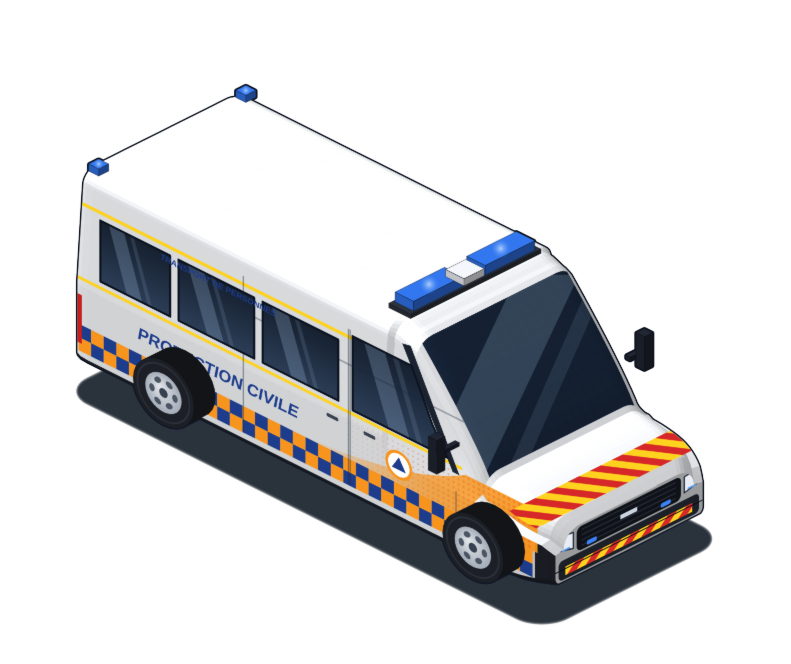
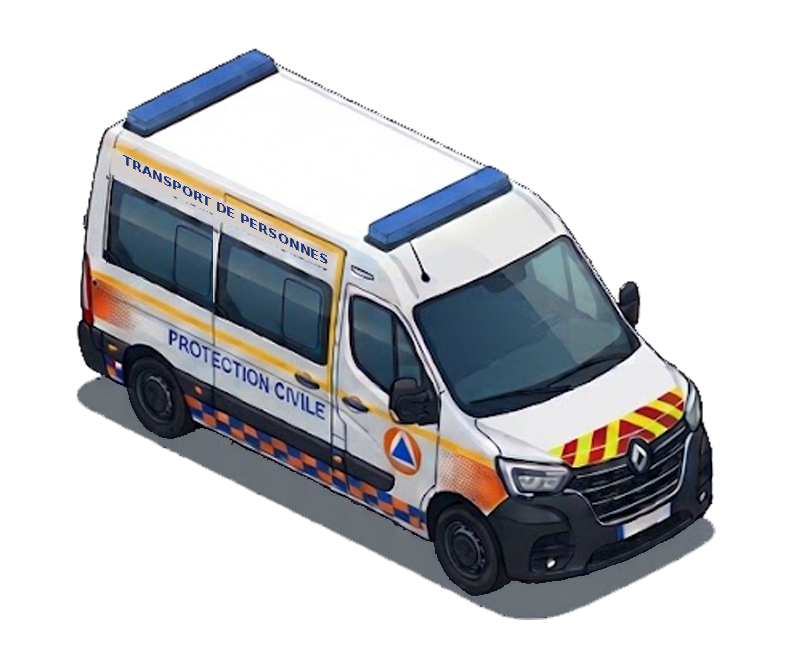
Corrections

diff --git a/js/base_live_scene.js b/js/base_live_scene.js
@@ -1995,11 +1995,12 @@
 
 
   // Sprites générés à l'angle exact de la caméra (images/vehicles/iso, 4 caps par modèle)
+  const SPRITE_REV = '3'; // à incrémenter quand les PNG véhicules changent
   const SPRITES = { manifest: null, loading: false, imgs: new Map() };
   function loadSpriteManifest(onReady) {
     if (SPRITES.manifest || SPRITES.loading || typeof fetch !== 'function') return;
     SPRITES.loading = true;
-    fetch('images/vehicles/iso/manifest.json').then(r => (r.ok ? r.json() : null)).then(m => {
+    fetch('images/vehicles/iso/manifest.json?v=' + SPRITE_REV).then(r => (r.ok ? r.json() : null)).then(m => {
       if (m && m.models) { SPRITES.manifest = m; if (onReady) onReady(); }
     }).catch(() => { /* pas de sprites : repli sur les illustrations */ });
   }
@@ -2030,7 +2031,7 @@
     if (!e) {
       e = { img: new Image(), ready: false };
       e.img.onload = () => { e.ready = true; };
-      e.img.src = 'images/vehicles/iso/' + file;
+      e.img.src = 'images/vehicles/iso/' + file + '?v=' + SPRITE_REV;
       SPRITES.imgs.set(file, e);
     }
     return e.ready ? e.img : null;

diff --git a/jeu.html b/jeu.html
@@ -1425,7 +1425,7 @@
   <script src="js/scenarios_manager.js"></script>
   <script src="js/admin.js?v=2.6.5"></script>
   <script src="js/building_engine.js"></script>
-  <script src="js/base_live_scene.js?v=2.5.2"></script>
+  <script src="js/base_live_scene.js?v=2.5.3"></script>
   <script src="js/locaux.js?v=2.10.0"></script>
   <script src="js/logistique.js?v=2.7.9"></script>
   <script src="js/boutiques.js"></script>

diff --git a/sw.js b/sw.js
@@ -10,7 +10,7 @@
  * - En cas de coupure réseau, le client bloque immédiatement l'accès au jeu.
  */
 
-const CACHE_VERSION = 'myprotec-online-v2.9.7';
+const CACHE_VERSION = 'myprotec-online-v2.9.8';
 const STATIC_CACHE = `myprotec-static-${CACHE_VERSION}`;
 
 // Tableau de suivi des minuteurs d'alerte en arrière-plan
